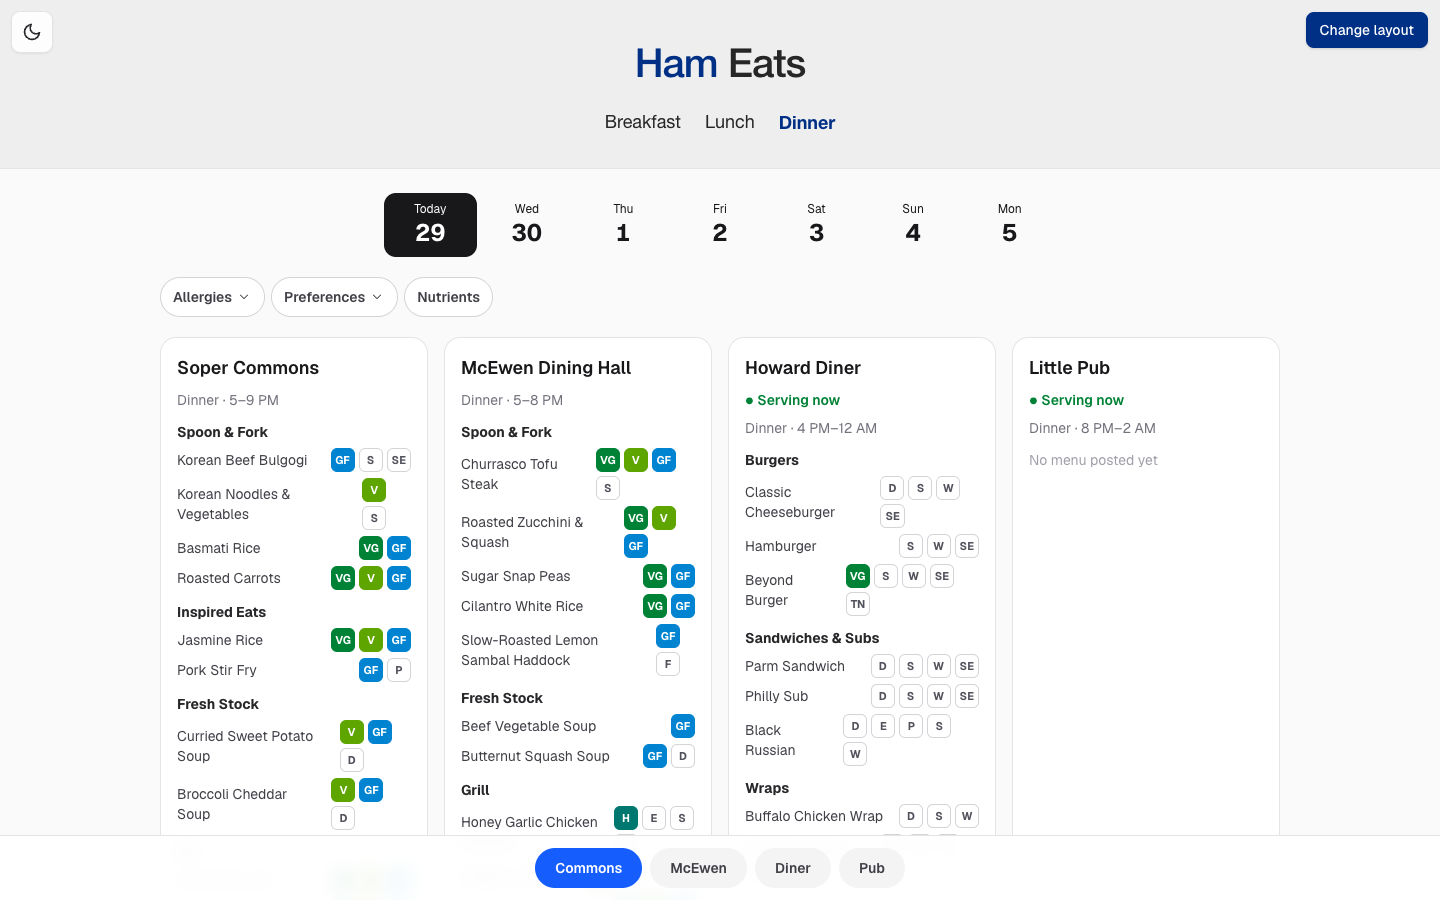
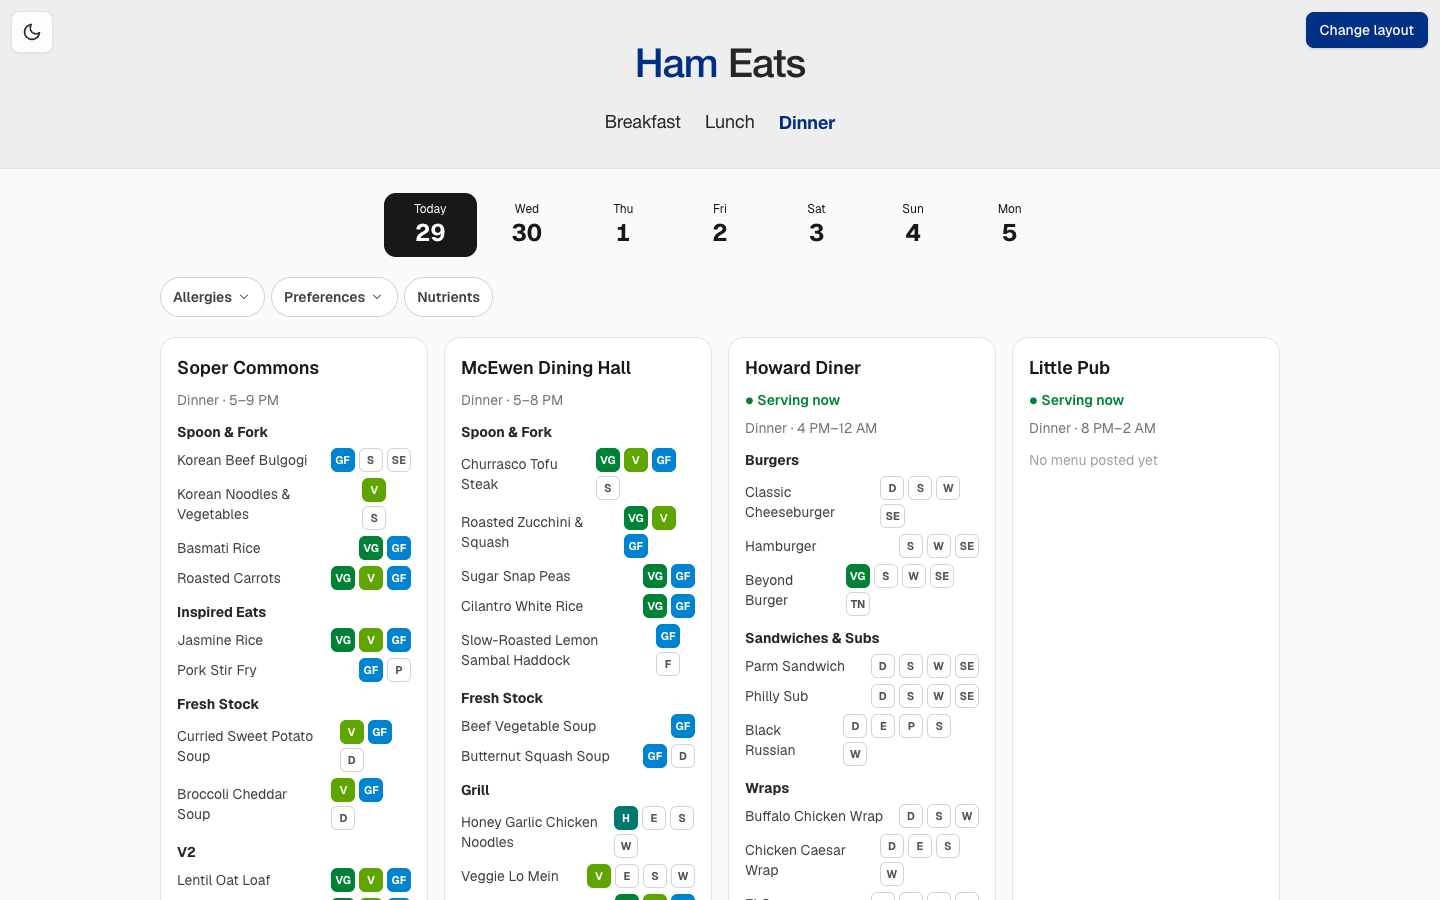
Continental: show the hall scroller on phones only
Wider screens lay the halls out side by side, so the bar isn't needed there.

Claude-Session: https://claude.ai/code/session_01M49B6mNToSByaCvupQRbCF

Changed region(s): [[0.2188, 0.9333, 0.6562, 1.0], [0.125, 0.9644, 0.1875, 0.9956]]

diff --git a/web/components/home/NetNutritionHomeLayout.tsx b/web/components/home/NetNutritionHomeLayout.tsx
@@ -324,7 +324,8 @@ const SHORT_NAMES: Record<string, string> = {
 };
 
 /**
- * TigerMenus-style hall scroller: a bar pinned to the bottom of the screen with one pill per hall.
+ * TigerMenus-style hall scroller, phones only (wider screens show the halls side by side): a bar
+ * pinned to the bottom of the screen with one pill per hall.
  * Tapping a pill scrolls to that hall's card; the hall currently on screen is highlighted. The bar
  * only shows while the halls are on screen, so it never covers the header or the page footer.
  */
@@ -374,7 +375,7 @@ function HallScroller({ halls }: { halls: Hall[] }) {
   return (
     <nav
       aria-label="Jump to dining hall"
-      className={`fixed inset-x-0 bottom-0 z-30 border-t border-zinc-200 bg-white/95 backdrop-blur transition-transform duration-200 dark:border-zinc-800 dark:bg-zinc-900/95 ${
+      className={`fixed inset-x-0 bottom-0 z-30 border-t sm:hidden border-zinc-200 bg-white/95 backdrop-blur transition-transform duration-200 dark:border-zinc-800 dark:bg-zinc-900/95 ${
         visible ? "translate-y-0" : "pointer-events-none translate-y-full"
       }`}
     >
@@ -442,8 +443,8 @@ export function NetNutritionHomeLayout({ data, now }: HomeLayoutProps) {
     <div>
       <MealHeader meal={meal} onSelectMeal={setMeal} />
 
-      {/* Extra bottom padding so the last hall can scroll clear of the hall scroller. */}
-      <main className="mx-auto max-w-6xl px-4 pb-24 pt-6">
+      {/* Extra bottom padding on phones so the last hall can scroll clear of the hall scroller. */}
+      <main className="mx-auto max-w-6xl px-4 pb-24 pt-6 sm:pb-6">
         <div className="mx-auto mb-5 max-w-2xl">
           <DayPicker
             dates={dates}
